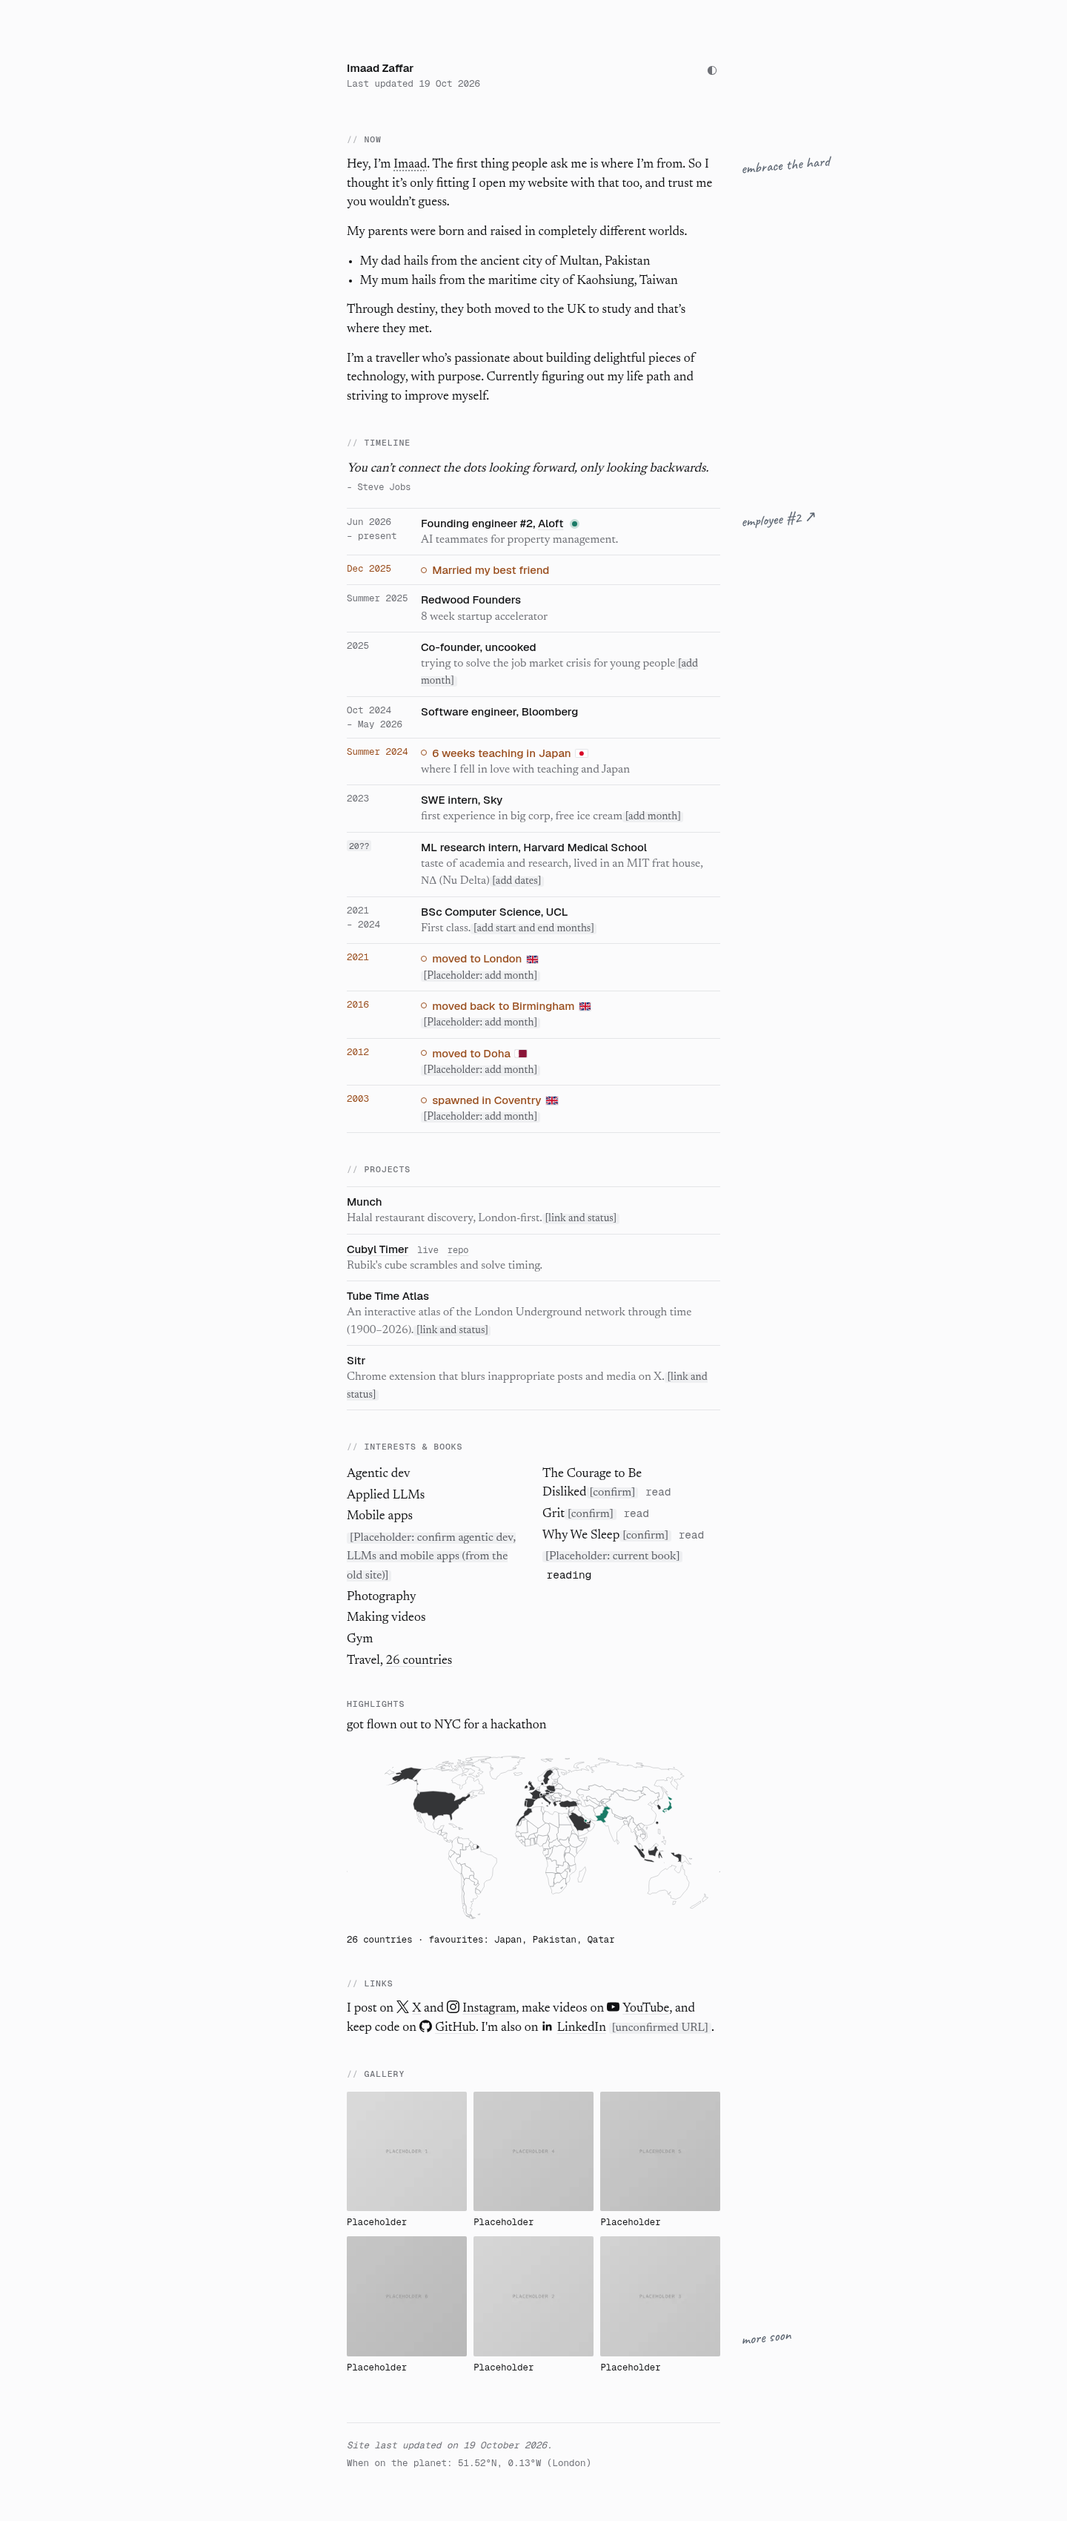
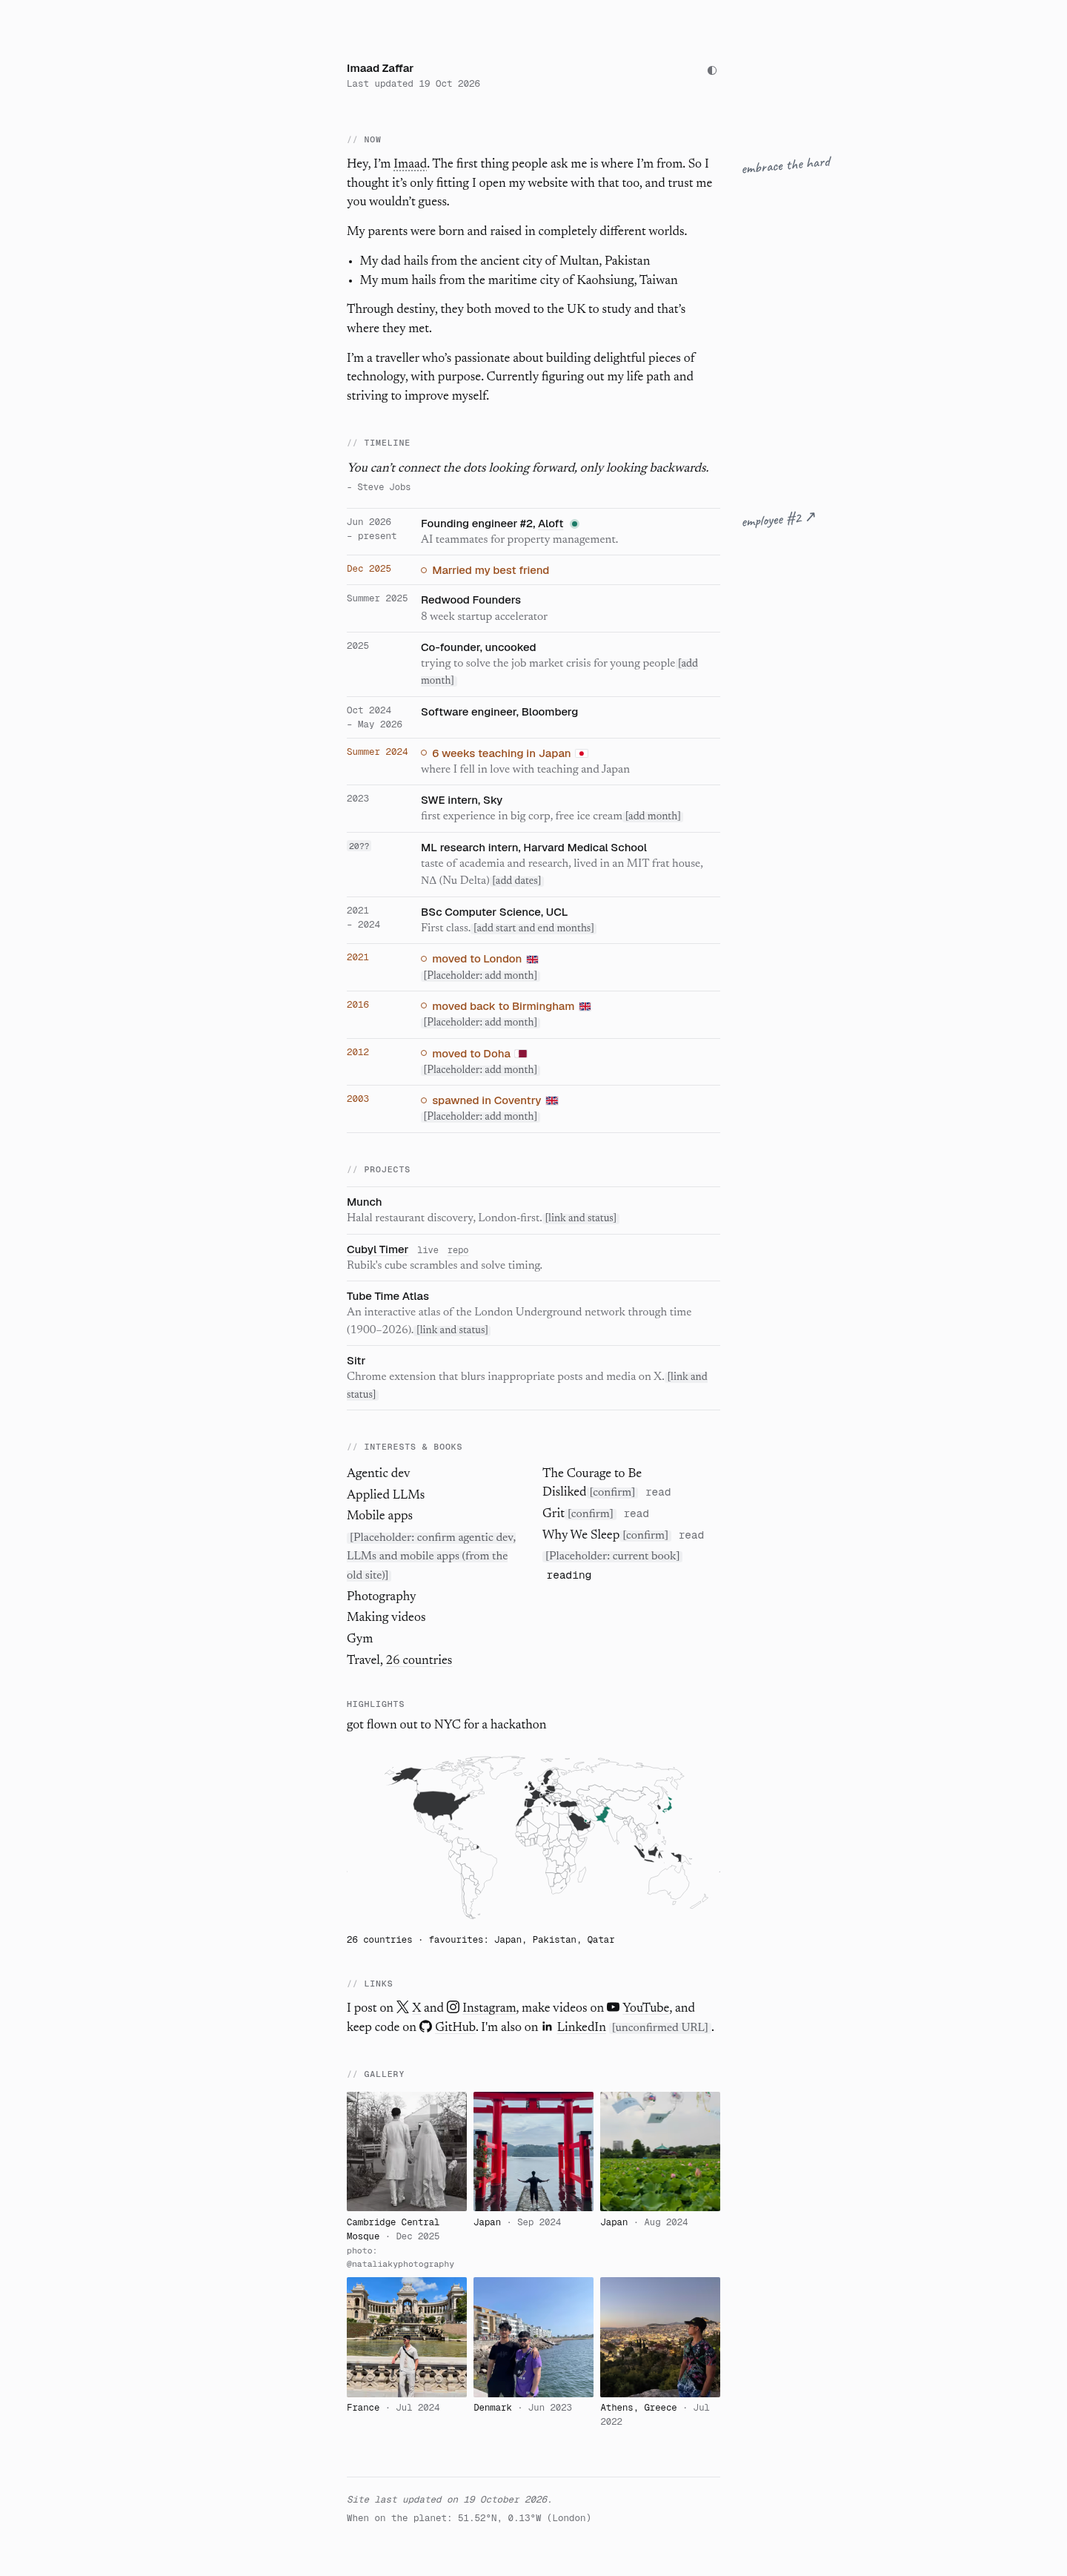
Gallery: six photos from Instagram replace the placeholders
- 01 to 06 from @_zafaris, newest first, wedding photo first with the
  photographer credit. Each tile links to its Instagram post.
- Gallery entries now carry caption, YYYY-MM date, alt, url, optional
  credit and object-position; the place and todo fields are gone.
- AVIF and WebP at 240 and 480 px, lazy loaded, 480 px JPEG fallback.
- Photos show in colour; the greyscale filter, dark-mode placeholder
  inversion, "more soon" note and placeholder generator are removed.

diff --git a/src/styles/global.css b/src/styles/global.css
@@ -112,7 +112,7 @@ a:focus-visible, .term:focus-visible { outline: 1px solid var(--accent); outline
 .books em { font-style: normal; color: var(--muted); font-size: 0.85em; margin-left: 0.35rem; }
 .books em.reading { color: var(--ink); }
 
-#gallery, #now { position: relative; }
+#now { position: relative; }
 .map { margin: 0.75rem 0 0; }
 .map svg { display: block; width: 100%; height: auto; }
 .map .land { fill: none; stroke: var(--muted); stroke-opacity: 0.55; stroke-width: 0.5; stroke-linejoin: round; vector-effect: non-scaling-stroke; }
@@ -123,8 +123,9 @@ a:focus-visible, .term:focus-visible { outline: 1px solid var(--accent); outline
 .sr-only { position: absolute; width: 1px; height: 1px; overflow: hidden; clip-path: inset(50%); white-space: nowrap; }
 .grid { display: grid; grid-template-columns: repeat(3, 1fr); gap: 0.6rem; }
 figure { margin: 0; }
-.grid img { display: block; width: 100%; height: auto; aspect-ratio: 1; object-fit: cover; border-radius: 2px; filter: saturate(0); }
-[data-theme='dark'] .grid img.placeholder { filter: invert(0.9); }
+.grid a, .grid picture { display: block; }
+.grid img { display: block; width: 100%; height: auto; aspect-ratio: 1; object-fit: cover; border-radius: 2px; }
+.credit { display: block; overflow-wrap: anywhere; font-family: var(--mono); font-size: 0.72rem; color: var(--muted); }
 figcaption { font-size: 0.82em; margin-top: 0.35rem; }
 figcaption span { color: var(--muted); }
 
@@ -134,7 +135,6 @@ figcaption span { color: var(--muted); }
   color: var(--pencil); transform: rotate(-4deg); transform-origin: left center;
 }
 .hn-now { top: 2.4rem; transform: rotate(-5deg); }
-.hn-g { top: auto; bottom: 2.2rem; transform: rotate(-6deg); }
 
 footer { margin-top: 4rem; padding-top: 1.25rem; border-top: 1px solid var(--line); color: var(--muted); }
 footer p { margin: 0 0 0.3rem; }
@@ -144,8 +144,7 @@ section, footer { animation: rise 0.6s cubic-bezier(0.2, 0.7, 0.2, 1) both; anim
 @media (prefers-reduced-motion: reduce) { * { animation: none !important; transition: none !important; } }
 
 @media (max-width: 1000px) {
-  .hn, .hn-g { position: static; display: inline-block; margin-top: 0.2rem; transform: rotate(-1.5deg); white-space: normal; }
-  .hn-g { margin-top: 0.6rem; }
+  .hn { position: static; display: inline-block; margin-top: 0.2rem; transform: rotate(-1.5deg); white-space: normal; }
 }
 @media (max-width: 420px) {
   .cols { grid-template-columns: 1fr; gap: 0; }

diff --git a/src/content.config.ts b/src/content.config.ts
@@ -92,10 +92,12 @@ const gallery = defineCollection({
   schema: ({ image }) =>
     z.object({
       image: image(),
-      caption: z.string().nullable(),
-      place: z.string().nullable(),
-      date: z.coerce.date().nullable(),
-      todo,
+      caption: z.string(),
+      date: partialDate,
+      alt: z.string(),
+      url: z.string().url(),
+      credit: z.string().optional(),
+      position: z.string().optional(),
     }),
 })
 

diff --git a/README.md b/README.md
@@ -26,11 +26,11 @@ All copy lives in `src/content/`. The schemas in `src/content.config.ts` validat
 | `interests.json` | Entries with `kind` set to `interest`, `highlight` (`text`) or `book` (`status`: `reading` or `read`). |
 | `travel.json` | Visited countries: `{ "id": "JP", "favourite": true }`, with optional `year` and `note`. `id` must be an ISO 3166-1 alpha-2 code. The world map, its favourites (in teal) and the Travel count come from this file. Countries too small to see get a dot. |
 | `links.json` | The links used in the Links sentence. `id` is one of `x`, `instagram`, `youtube`, `github`, `linkedin`. |
-| `gallery/*.json` | One file per photo: `image` (a path next to the JSON file), `caption`, `place`, `date`. |
+| `gallery/*.json` | One file per photo: `image` (a path next to the JSON file), `caption`, `date` (`YYYY-MM`), `alt`, `url` (the Instagram post), optional `credit` and `position` (CSS `object-position` for the square crop). Files sort by name, so `01` shows first. |
 
 Placeholders follow one rule. Set a value to `null` and give a `todo` to show a grey `[Placeholder: …]` mark. Keep a value and add a `todo` to show it with a small `[todo]` mark. Delete the `todo` once the content is real. `npm run todos` lists what is left.
 
-To add a photo, drop the image into `src/content/gallery/` and add a JSON file next to it. Astro resizes it to WebP at build time.
+To add a photo, drop the image into `src/content/gallery/` and add a JSON file next to it. Astro resizes it to AVIF and WebP at build time.
 
 ## Files
 
@@ -38,6 +38,5 @@ To add a photo, drop the image into `src/content/gallery/` and add a JSON file n
 - `src/layouts/Base.astro` holds the head: meta, Open Graph, JSON-LD, fonts, and the theme script that runs before paint.
 - `src/styles/global.css` holds every style. Colours are CSS variables, with a dark set under `[data-theme='dark']`.
 - `public/` holds `og.png` (1200×630), `favicon.svg` and `robots.txt`.
-- `scripts/placeholders.mjs` regenerated the grey gallery placeholders. Delete it with the placeholders.
 
 The previous three.js cube site is in git history before this branch.
